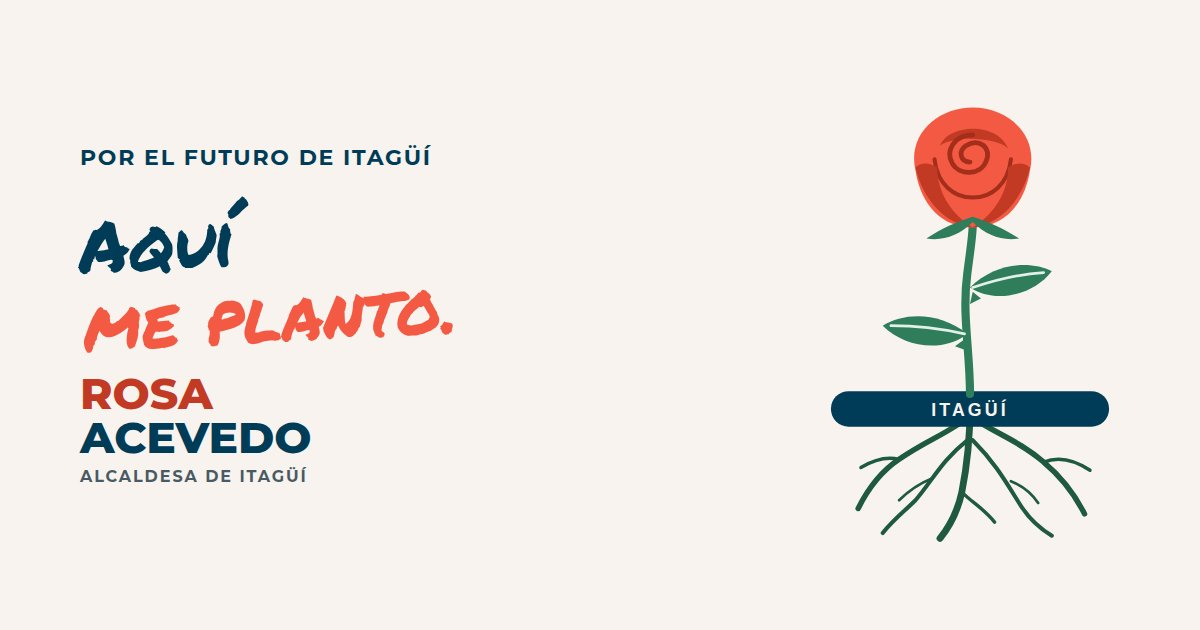
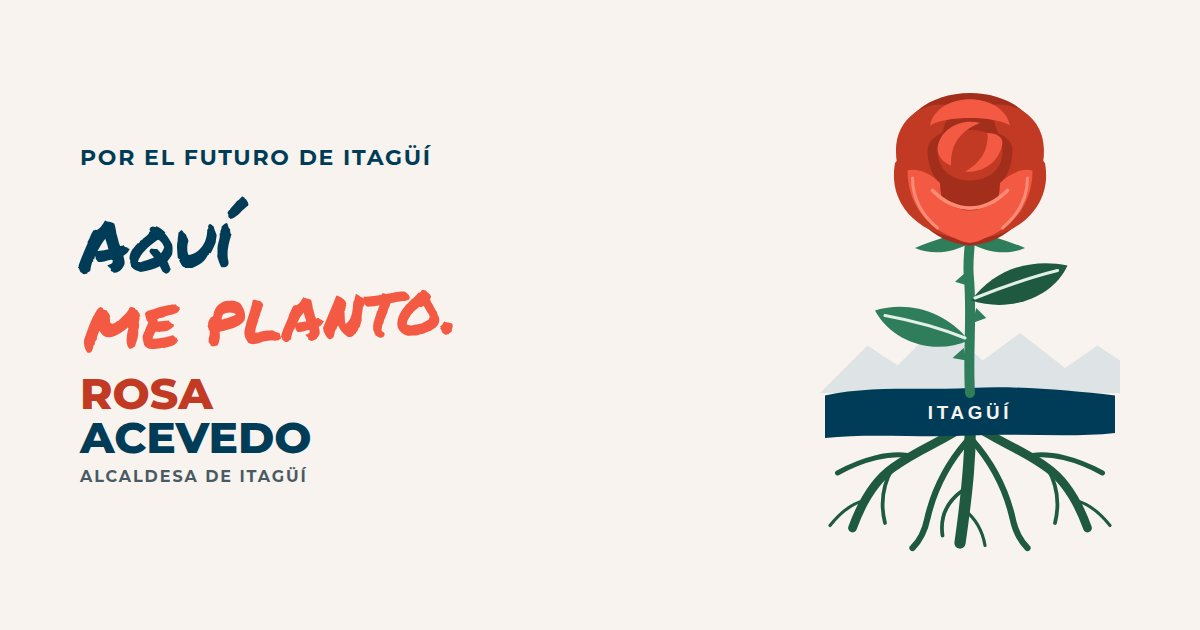
Rosa «Aquí me planto» con más fuerza
Nueva ilustración RosaRaices: rosa abierta con pétalos por capas y volumen,
tallo recto con espinas, hojas que suben, montañas del valle detrás y raíces
anchas y profundas que se aferran a la tierra de Itagüí. Más grande junto al
lema. Actualizados el componente en línea, el SVG de marca y la imagen para redes.

Claude-Session: https://claude.ai/code/session_01UgPfBkcg8AtWJT35oW79rD

Changed region(s): [[0.6783, 0.1508, 0.9558, 0.8746]]

diff --git a/resources/css/sitio.css b/resources/css/sitio.css
@@ -181,3 +181,12 @@ img { max-width: 100%; height: auto; }
 
 /* Franja «Raíces» y buzón: rótulos en verde profundo (contraste AA sobre verde tenue) */
 .ra-franja-raiz .ra-h2 { color: var(--verde-profundo); }
+
+/* Rosa «Aquí me planto»: capas que no están en el kit */
+.ra-r-petalo-sombra { fill: var(--coral-oscuro); }
+.ra-r-brillo { stroke: var(--coral-claro); stroke-linecap: round; }
+.ra-r-hoja-oscura { fill: var(--verde-profundo); }
+.ra-r-montana { fill: var(--azul-claro); opacity: .55; }
+.ra-rosa .ra-r-texto { font-size: 15px; letter-spacing: 0.2em; }
+.ra-lema-fila .ra-rosa { width: 120px; }
+@media (min-width: 768px) { .ra-lema-fila .ra-rosa { width: 176px; } }

diff --git a/resources/views/components/ra/rosa-raices.blade.php b/resources/views/components/ra/rosa-raices.blade.php
@@ -1,32 +1,54 @@
-@props(['etiqueta' => 'Rosa con sus raíces afincadas en la tierra de Itagüí'])
-{{-- Ilustración de marca en línea (componente RosaRaices). Propuesta de Tecnología hasta la pieza definitiva de Comunicaciones. --}}
-<svg {{ $attributes->merge(['class' => 'ra-rosa']) }} viewBox="0 0 220 340" role="img" aria-label="{{ $etiqueta }}">
- <g class="ra-r-raiz" fill="none" stroke-linecap="round" stroke-linejoin="round">
-  <path d="M110 238 C110 262 108 280 104 300 C101 314 96 324 88 334" stroke-width="5"/>
-  <path d="M110 244 C96 256 78 262 58 276 C46 284 36 296 28 312" stroke-width="4"/>
-  <path d="M110 244 C126 256 146 262 164 278 C176 288 186 300 194 316" stroke-width="4"/>
-  <path d="M108 262 C90 276 82 292 70 306 C62 314 54 320 46 330" stroke-width="3"/>
-  <path d="M112 262 C128 278 136 292 146 308 C152 318 160 326 170 332" stroke-width="3"/>
-  <path d="M58 276 C50 274 40 276 30 282" stroke-width="2.5"/>
-  <path d="M164 278 C174 274 186 276 198 284" stroke-width="2.5"/>
-  <path d="M104 300 C112 308 120 312 128 322" stroke-width="2.5"/>
-  <path d="M82 290 C72 294 64 300 58 306" stroke-width="2"/>
-  <path d="M140 292 C150 296 156 302 160 308" stroke-width="2"/>
- </g>
- <rect class="ra-r-tierra" x="8" y="226" width="204" height="26" rx="13"/>
- <text class="ra-r-texto" x="110" y="244" text-anchor="middle">ITAGÜÍ</text>
- <path class="ra-r-tallo" d="M110 228 C110 196 104 170 108 140 C110 124 112 112 112 104" fill="none" stroke-width="6" stroke-linecap="round"/>
- <path class="ra-r-espina" d="M107 196 l-8 -3 l7 -5 z"/>
- <path class="ra-r-espina" d="M110 162 l8 -4 l-6 -5 z"/>
- <path class="ra-r-hoja" d="M108 184 C88 168 62 168 46 178 C62 194 90 198 108 184 z"/>
- <path class="ra-r-vena" d="M106 184 C88 180 70 178 52 178" fill="none" stroke-width="2" stroke-linecap="round"/>
- <path class="ra-r-hoja" d="M110 150 C128 132 154 130 170 138 C156 156 128 162 110 150 z"/>
- <path class="ra-r-vena" d="M112 150 C130 144 148 140 164 139" fill="none" stroke-width="2" stroke-linecap="round"/>
- <path class="ra-r-petalo" d="M70 64 C64 38 86 18 112 18 C138 18 160 38 154 64 C150 90 134 106 112 106 C90 106 74 90 70 64 z"/>
- <path class="ra-r-petalo-int" d="M88 46 C94 30 130 28 138 48 C130 40 98 38 88 46 z"/>
- <path class="ra-r-espiral" d="M112 38 C98 38 92 50 97 59 C102 68 118 68 122 57 C126 47 116 40 107 46 C101 50 103 58 110 58" fill="none" stroke-width="3.5" stroke-linecap="round"/>
- <path class="ra-r-espiral" d="M84 56 C86 74 98 84 112 84 C126 84 138 74 140 56" fill="none" stroke-width="3" stroke-linecap="round"/>
- <path class="ra-r-petalo-int" d="M70 62 C76 88 94 104 112 106 C96 96 86 80 86 62 C80 58 74 58 70 62 z"/>
- <path class="ra-r-petalo-int" d="M154 62 C148 88 130 104 112 106 C128 96 138 80 138 62 C144 58 150 58 154 62 z"/>
- <path class="ra-r-hoja" d="M112 102 C102 112 90 116 78 114 C90 106 100 102 112 98 C124 102 134 106 146 114 C134 116 122 112 112 102 z"/>
+@props(['etiqueta' => 'Rosa plantada con sus raíces en la tierra de Itagüí'])
+{{-- Ilustración de marca «Aquí me planto» en línea (componente RosaRaices): la rosa abierta y firme, con
+     espinas para defender, hojas que suben y raíces que se aferran a la tierra de Itagüí, con las montañas
+     del valle detrás. Propuesta de Tecnología hasta la pieza definitiva de Comunicaciones. --}}
+<svg {{ $attributes->merge(['class' => 'ra-rosa']) }} viewBox="0 0 240 380" role="img" aria-label="{{ $etiqueta }}">
+<!-- montañas del valle -->
+<path class="ra-r-montana" d="M0 252 L38 214 L62 230 L96 196 L130 226 L160 204 L196 232 L222 214 L240 226 L240 252Z"/>
+<!-- raíces: se aferran a la tierra -->
+<g class="ra-r-raiz">
+ <path d="M120 270 C121 300 118 330 112 372" stroke-width="9"/>
+ <path d="M119 276 C100 290 80 296 58 312 C44 322 34 338 26 360" stroke-width="7"/>
+ <path d="M121 276 C140 290 160 296 182 312 C196 322 206 338 214 360" stroke-width="7"/>
+ <path d="M118 290 C104 306 92 326 86 352 C84 362 80 370 74 376" stroke-width="5"/>
+ <path d="M122 290 C136 306 148 326 154 352 C156 362 160 370 166 376" stroke-width="5"/>
+ <path d="M70 302 C56 300 36 304 14 316" stroke-width="4"/>
+ <path d="M170 302 C184 300 204 304 226 316" stroke-width="4"/>
+ <path d="M58 312 C50 326 48 340 52 356" stroke-width="3"/>
+ <path d="M182 312 C190 326 192 340 188 356" stroke-width="3"/>
+ <path d="M114 330 C100 340 96 352 98 366" stroke-width="3"/>
+ <path d="M115 345 C124 352 130 362 132 374" stroke-width="2.5"/>
+ <path d="M36 338 C26 340 16 348 8 358" stroke-width="2.5"/>
+ <path d="M204 338 C214 340 224 348 232 358" stroke-width="2.5"/>
+</g>
+<!-- tierra: Itagüí -->
+<path class="ra-r-tierra" d="M4 254 C40 246 80 250 120 248 C160 246 200 250 236 254 L236 284 C200 288 160 284 120 286 C80 288 40 284 4 288Z"/>
+<text class="ra-r-texto" x="120" y="273" text-anchor="middle">ITAGÜÍ</text>
+<!-- tallo firme -->
+<path class="ra-r-tallo" d="M120 252 C118 220 122 190 119 158 C118 146 120 136 120 128" stroke-width="8"/>
+<path class="ra-r-espina" d="M117 226 l-11 -2 l9 -8z"/><path class="ra-r-espina" d="M122 196 l11 -4 l-8 -8z"/><path class="ra-r-espina" d="M118 166 l-10 -3 l8 -7z"/>
+<!-- hojas que suben -->
+<path class="ra-r-hoja" d="M119 210 C100 186 70 178 44 186 C58 212 92 222 119 210Z"/>
+<path class="ra-r-vena" d="M116 208 C96 200 74 194 52 190" stroke-width="2.5"/>
+<path class="ra-r-hoja-oscura" d="M121 178 C140 152 170 144 198 150 C186 176 152 188 121 178Z"/>
+<path class="ra-r-vena" d="M124 176 C144 168 166 160 190 154" stroke-width="2.5"/>
+<!-- cáliz -->
+<path class="ra-r-hoja" d="M120 132 C106 140 90 142 76 136 C90 130 104 126 120 122 C136 126 150 130 164 136 C150 142 134 140 120 132Z"/>
+<!-- flor: pétalos por capas -->
+<path class="ra-r-petalo-sombra" d="M62 72 C56 36 84 12 120 12 C156 12 184 36 178 72 C174 108 150 132 120 134 C90 132 66 108 62 72Z"/>
+<path class="ra-r-petalo-int" d="M64 74 C52 42 76 16 106 22 C98 40 92 58 94 82Z"/>
+<path class="ra-r-petalo-int" d="M176 74 C188 42 164 16 134 22 C142 40 148 58 146 82Z"/>
+<path class="ra-r-petalo" d="M88 38 C94 10 146 10 152 38 C140 30 100 30 88 38Z"/>
+<path class="ra-r-petalo-sombra" d="M86 58 C86 34 154 34 154 58 C154 80 138 96 120 96 C102 96 86 80 86 58Z"/>
+<path class="ra-r-petalo-int" d="M94 58 C94 36 146 36 146 58 C146 74 134 82 120 82 C106 82 94 74 94 58Z"/>
+<path class="ra-r-petalo" d="M94 56 C96 40 114 32 128 36 C112 42 104 54 105 70 C99 68 94 63 94 56Z"/>
+<path class="ra-r-petalo" d="M146 52 C144 66 132 76 116 75 C128 68 135 58 134 44 C141 44 146 47 146 52Z"/>
+<path class="ra-r-petalo-int" d="M60 68 C54 100 78 124 110 128 C92 114 84 94 88 70 C80 62 66 60 60 68Z"/>
+<path class="ra-r-petalo-int" d="M180 68 C186 100 162 124 130 128 C148 114 156 94 152 70 C160 62 174 60 180 68Z"/>
+<path class="ra-r-petalo" d="M70 74 C70 104 90 124 114 130 C104 116 96 100 96 84 C88 76 78 72 70 74Z"/>
+<path class="ra-r-petalo" d="M170 74 C170 104 150 124 126 130 C136 116 144 100 144 84 C152 76 162 72 170 74Z"/>
+<path class="ra-r-petalo" d="M86 86 C98 100 110 106 120 106 C130 106 142 100 154 86 C152 112 138 130 120 132 C102 130 88 112 86 86Z"/>
+<path class="ra-r-brillo" fill="none" stroke-linecap="round" stroke-width="3" d="M90 90 C100 100 110 104 120 104 C130 104 140 100 150 90"/>
+<path class="ra-r-brillo" fill="none" stroke-linecap="round" stroke-width="2.5" d="M74 80 C74 96 82 110 94 120"/>
+<path class="ra-r-brillo" fill="none" stroke-linecap="round" stroke-width="2.5" d="M166 80 C166 96 158 110 146 120"/>
 </svg>

diff --git a/docs/Especificacion_Sitio_Web_Rosa_Alcaldesa_2027.md b/docs/Especificacion_Sitio_Web_Rosa_Alcaldesa_2027.md
@@ -90,7 +90,7 @@ La emoción objetivo es la **tranquilidad** (31,4 % la quiere sentir). El tono v
 
 ### La rosa con raíces
 
-Junto al lema «Aquí me planto.» va siempre la ilustración **RosaRaices**: una rosa coral con tallo y hojas verdes, cuyas raíces atraviesan una franja azul que dice ITAGÜÍ. Es la metáfora del manifiesto hecha imagen: la rosa tiene raíces, tiene espinas para defender y florece. Dentro del sitio se usa como SVG en línea (componente RosaRaices); fuera del sitio, `Marca/rosa-raices.svg`. Es una propuesta de Tecnología hasta que Comunicaciones entregue la pieza definitiva.
+Junto al lema «Aquí me planto.» va siempre la ilustración **RosaRaices**: una rosa coral abierta, con pétalos por capas, tallo recto con espinas y hojas verdes que suben, plantada en una franja azul que dice ITAGÜÍ, con las montañas del valle detrás y raíces anchas y profundas que se aferran a la tierra (versión 2, 8 oct 2026). Es la metáfora del manifiesto hecha imagen: la rosa tiene raíces, tiene espinas para defender y florece. Dentro del sitio se usa como SVG en línea (componente RosaRaices); fuera del sitio, `Marca/rosa-raices.svg`. Es una propuesta de Tecnología hasta que Comunicaciones entregue la pieza definitiva.
 
 ### Iconografía
 
